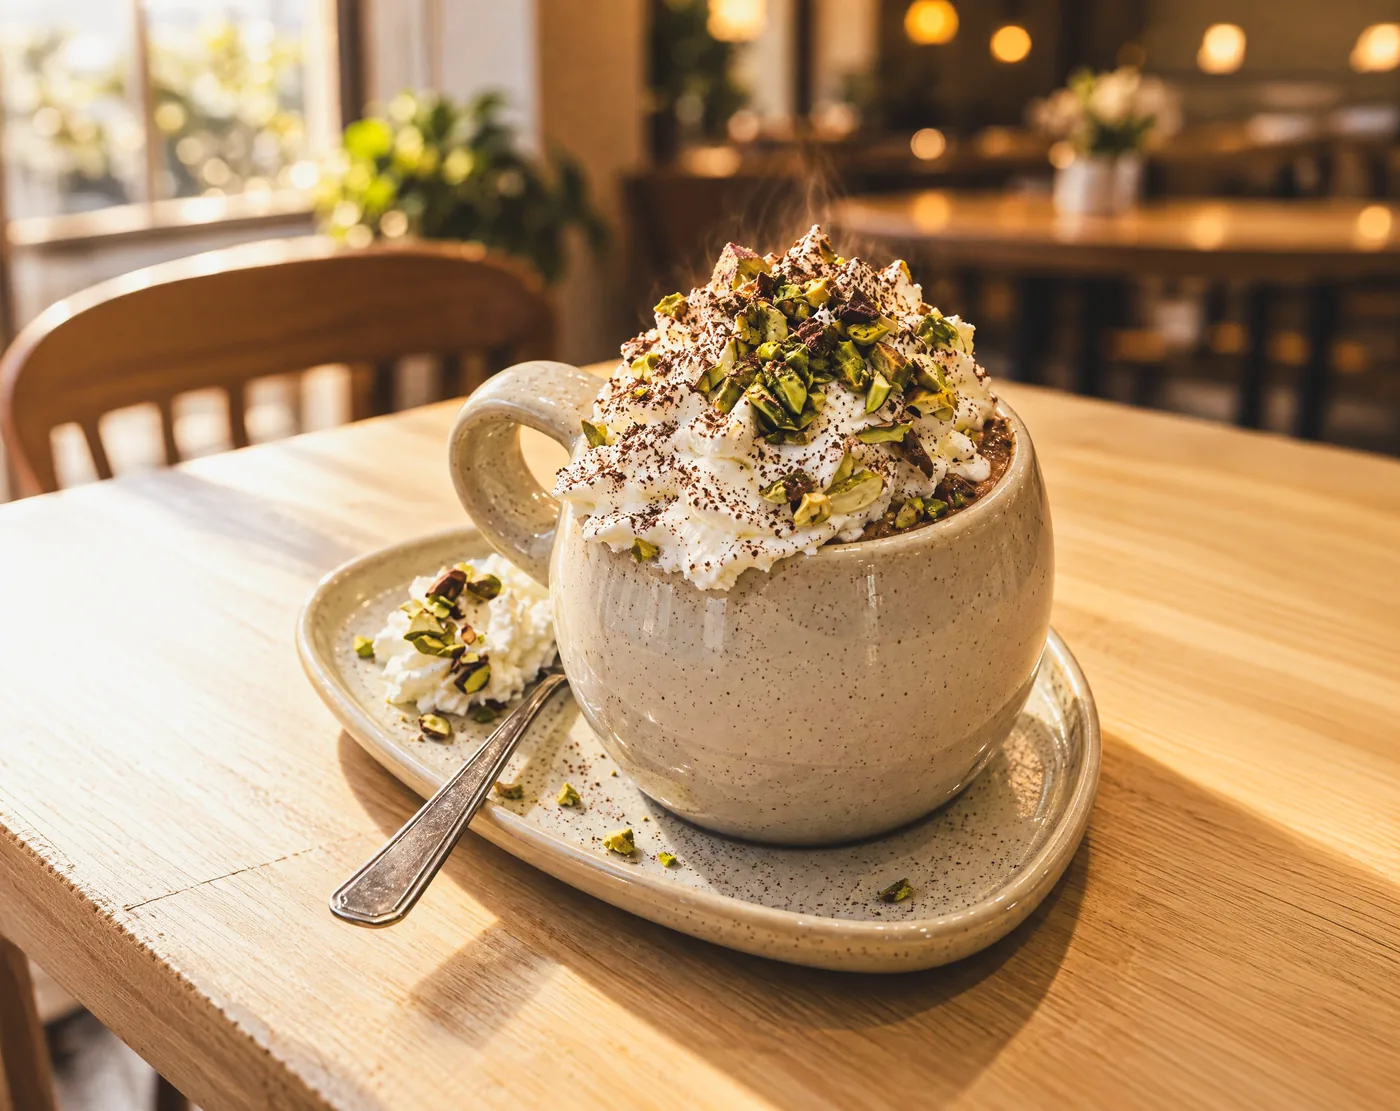
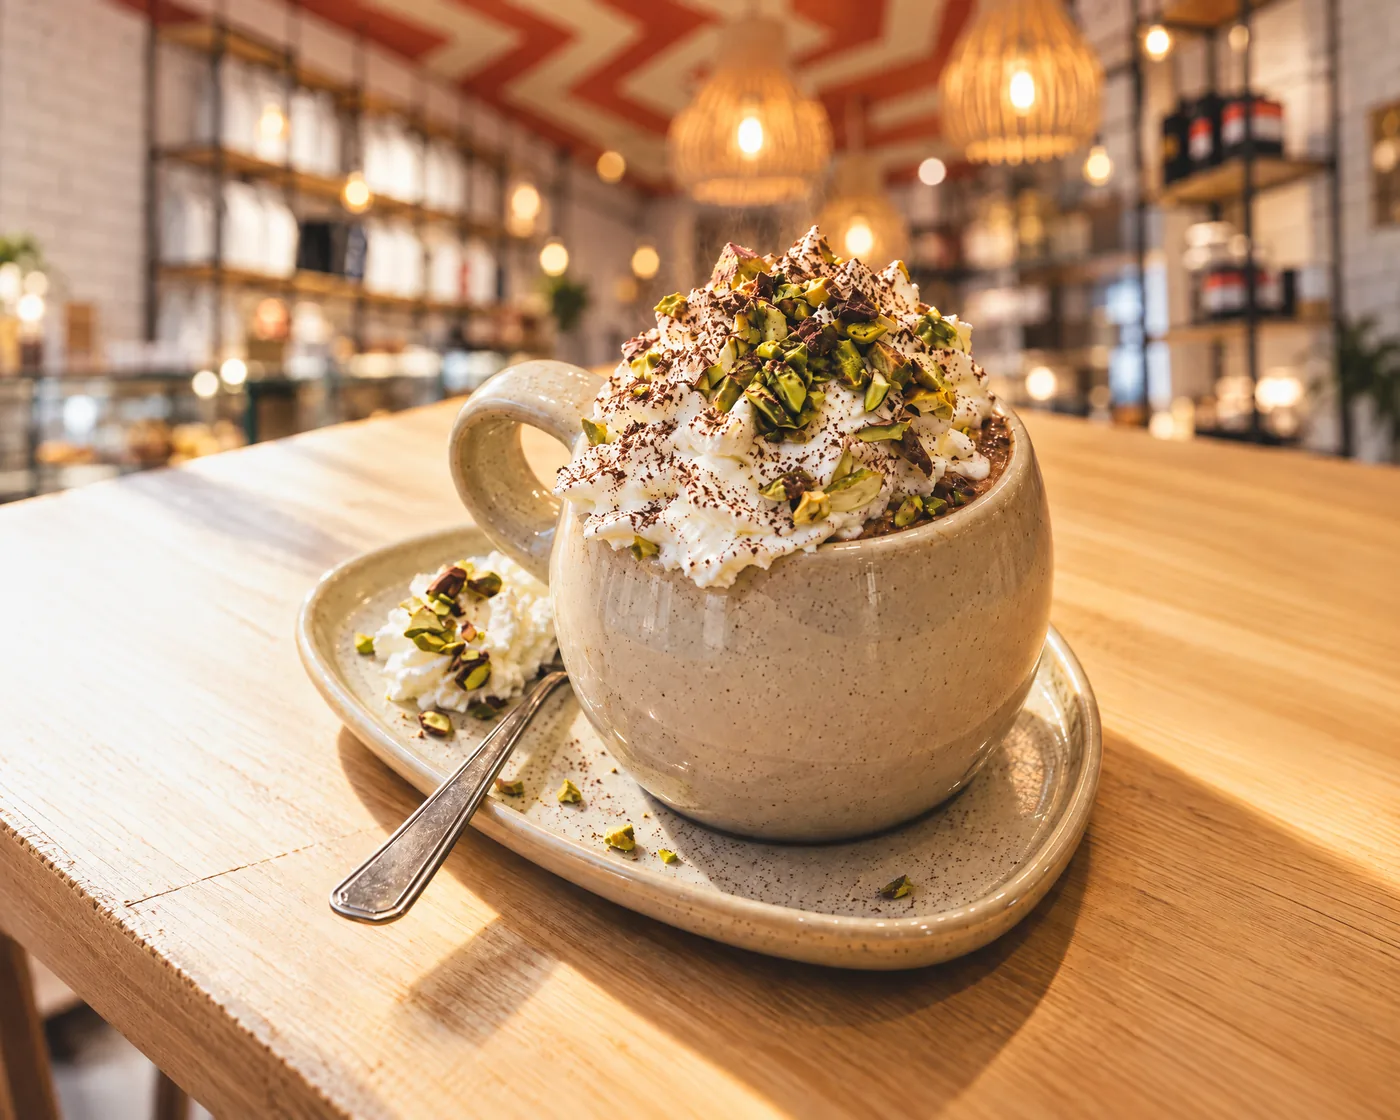
Hot chocolate card: our own shop behind the pistachio mug
Background replaced with the real Cereal Lovers interior (chevron ceiling, rattan lamps,
wire shelves); a soft shadow keeps the hand-written note readable on it.

diff --git a/cereallovers-preview/fr.html b/cereallovers-preview/fr.html
@@ -579,7 +579,7 @@ h2{font-size:clamp(44px,7.4vw,108px)}
 .nc.hc{display:grid;grid-template-columns:minmax(0,.95fr) minmax(0,1.05fr);padding:0;color:#fff;box-shadow:8px 8px 0 var(--coral)}
 .hc-ph{position:relative;margin:0;overflow:hidden;min-height:300px;border-right:2px solid var(--ink)}
 .hc-ph img{position:absolute;inset:0;width:100%;height:100%;object-fit:cover;object-position:55% 50%}
-.hc-cream{position:absolute;right:5%;top:6%;margin:0;font-family:var(--hand);font-size:clamp(18px,1.6vw,24px);line-height:1.05;color:#fff;rotate:-4deg;text-align:right}
+.hc-cream{position:absolute;right:5%;top:6%;margin:0;font-family:var(--hand);font-size:clamp(18px,1.6vw,24px);line-height:1.05;color:#fff;rotate:-4deg;text-align:right;text-shadow:0 1px 3px rgba(0,0,0,.7),0 0 14px rgba(0,0,0,.45)}
 .hc-ph .hc-arr{right:12%;top:25%;width:56px;height:56px}
 .hc-ph .hc-st{left:44%;top:22%;width:44px;height:44px;--s:var(--gold);--w:3}
 .hc-tx{padding:24px 22px 24px;container-type:inline-size}
@@ -795,7 +795,7 @@ h2{font-size:clamp(44px,7.4vw,108px)}
       <article class="nc hc" style="--c:var(--ink);--rot:1deg">
         <span class="hc-back" aria-hidden="true">DE<br>RETOUR<br>CET HIVER<i>enfin.</i></span>
         <figure class="hc-ph">
-          <img src="img/b2/news/hot-chocolate-pistachio.webp" alt="Notre chocolat chaud pistache, chantilly et pistaches concassées, dans la tasse où on le sert" width="1400" height="1111" loading="lazy">
+          <img src="img/b2/news/hot-chocolate-pistachio.webp" alt="Notre chocolat chaud pistache, chantilly et pistaches concassées, dans la tasse où on le sert" width="1400" height="1120" loading="lazy">
           <p class="hc-cream">chantilly ?<br>évidemment.</p>
           <svg class="sc dr hc-arr" viewBox="0 0 120 120" aria-hidden="true"><path pathLength="1" d="M 104 8 C 70 20 46 50 40 98 M 22 76 L 40 100 L 60 80" style="--s:#fff;--w:3"/></svg>
           <svg class="sc pop hc-st" viewBox="0 0 240 240" aria-hidden="true"><path d="M 114 15 L 128 87 L 184 26 L 151 95 L 225 88 L 159 122 L 215 171 L 147 146 L 151 223 L 121 156 L 60 210 L 91 143 L 16 151 L 83 118 L 29 62 L 98 88 Z"/></svg>

diff --git a/cereallovers-preview/en.html b/cereallovers-preview/en.html
@@ -579,7 +579,7 @@ h2{font-size:clamp(44px,7.4vw,108px)}
 .nc.hc{display:grid;grid-template-columns:minmax(0,.95fr) minmax(0,1.05fr);padding:0;color:#fff;box-shadow:8px 8px 0 var(--coral)}
 .hc-ph{position:relative;margin:0;overflow:hidden;min-height:300px;border-right:2px solid var(--ink)}
 .hc-ph img{position:absolute;inset:0;width:100%;height:100%;object-fit:cover;object-position:55% 50%}
-.hc-cream{position:absolute;right:5%;top:6%;margin:0;font-family:var(--hand);font-size:clamp(18px,1.6vw,24px);line-height:1.05;color:#fff;rotate:-4deg;text-align:right}
+.hc-cream{position:absolute;right:5%;top:6%;margin:0;font-family:var(--hand);font-size:clamp(18px,1.6vw,24px);line-height:1.05;color:#fff;rotate:-4deg;text-align:right;text-shadow:0 1px 3px rgba(0,0,0,.7),0 0 14px rgba(0,0,0,.45)}
 .hc-ph .hc-arr{right:12%;top:25%;width:56px;height:56px}
 .hc-ph .hc-st{left:44%;top:22%;width:44px;height:44px;--s:var(--gold);--w:3}
 .hc-tx{padding:24px 22px 24px;container-type:inline-size}
@@ -795,7 +795,7 @@ h2{font-size:clamp(44px,7.4vw,108px)}
       <article class="nc hc" style="--c:var(--ink);--rot:1deg">
         <span class="hc-back" aria-hidden="true">BACK<br>FOR<br>WINTER<i>finally.</i></span>
         <figure class="hc-ph">
-          <img src="img/b2/news/hot-chocolate-pistachio.webp" alt="Our pistachio hot chocolate, whipped cream and crushed pistachios, in the mug we serve it in" width="1400" height="1111" loading="lazy">
+          <img src="img/b2/news/hot-chocolate-pistachio.webp" alt="Our pistachio hot chocolate, whipped cream and crushed pistachios, in the mug we serve it in" width="1400" height="1120" loading="lazy">
           <p class="hc-cream">whipped cream?<br>obviously.</p>
           <svg class="sc dr hc-arr" viewBox="0 0 120 120" aria-hidden="true"><path pathLength="1" d="M 104 8 C 70 20 46 50 40 98 M 22 76 L 40 100 L 60 80" style="--s:#fff;--w:3"/></svg>
           <svg class="sc pop hc-st" viewBox="0 0 240 240" aria-hidden="true"><path d="M 114 15 L 128 87 L 184 26 L 151 95 L 225 88 L 159 122 L 215 171 L 147 146 L 151 223 L 121 156 L 60 210 L 91 143 L 16 151 L 83 118 L 29 62 L 98 88 Z"/></svg>

diff --git a/cereallovers-preview/index.html b/cereallovers-preview/index.html
@@ -579,7 +579,7 @@ h2{font-size:clamp(44px,7.4vw,108px)}
 .nc.hc{display:grid;grid-template-columns:minmax(0,.95fr) minmax(0,1.05fr);padding:0;color:#fff;box-shadow:8px 8px 0 var(--coral)}
 .hc-ph{position:relative;margin:0;overflow:hidden;min-height:300px;border-right:2px solid var(--ink)}
 .hc-ph img{position:absolute;inset:0;width:100%;height:100%;object-fit:cover;object-position:55% 50%}
-.hc-cream{position:absolute;right:5%;top:6%;margin:0;font-family:var(--hand);font-size:clamp(18px,1.6vw,24px);line-height:1.05;color:#fff;rotate:-4deg;text-align:right}
+.hc-cream{position:absolute;right:5%;top:6%;margin:0;font-family:var(--hand);font-size:clamp(18px,1.6vw,24px);line-height:1.05;color:#fff;rotate:-4deg;text-align:right;text-shadow:0 1px 3px rgba(0,0,0,.7),0 0 14px rgba(0,0,0,.45)}
 .hc-ph .hc-arr{right:12%;top:25%;width:56px;height:56px}
 .hc-ph .hc-st{left:44%;top:22%;width:44px;height:44px;--s:var(--gold);--w:3}
 .hc-tx{padding:24px 22px 24px;container-type:inline-size}
@@ -794,7 +794,7 @@ h2{font-size:clamp(44px,7.4vw,108px)}
       <article class="nc hc" style="--c:var(--ink);--rot:1deg">
         <span class="hc-back" aria-hidden="true">BACK<br>FOR<br>WINTER<i>finally.</i></span>
         <figure class="hc-ph">
-          <img src="img/b2/news/hot-chocolate-pistachio.webp" alt="Our pistachio hot chocolate, whipped cream and crushed pistachios, in the mug we serve it in" width="1400" height="1111" loading="lazy">
+          <img src="img/b2/news/hot-chocolate-pistachio.webp" alt="Our pistachio hot chocolate, whipped cream and crushed pistachios, in the mug we serve it in" width="1400" height="1120" loading="lazy">
           <p class="hc-cream">whipped cream?<br>obviously.</p>
           <svg class="sc dr hc-arr" viewBox="0 0 120 120" aria-hidden="true"><path pathLength="1" d="M 104 8 C 70 20 46 50 40 98 M 22 76 L 40 100 L 60 80" style="--s:#fff;--w:3"/></svg>
           <svg class="sc pop hc-st" viewBox="0 0 240 240" aria-hidden="true"><path d="M 114 15 L 128 87 L 184 26 L 151 95 L 225 88 L 159 122 L 215 171 L 147 146 L 151 223 L 121 156 L 60 210 L 91 143 L 16 151 L 83 118 L 29 62 L 98 88 Z"/></svg>
